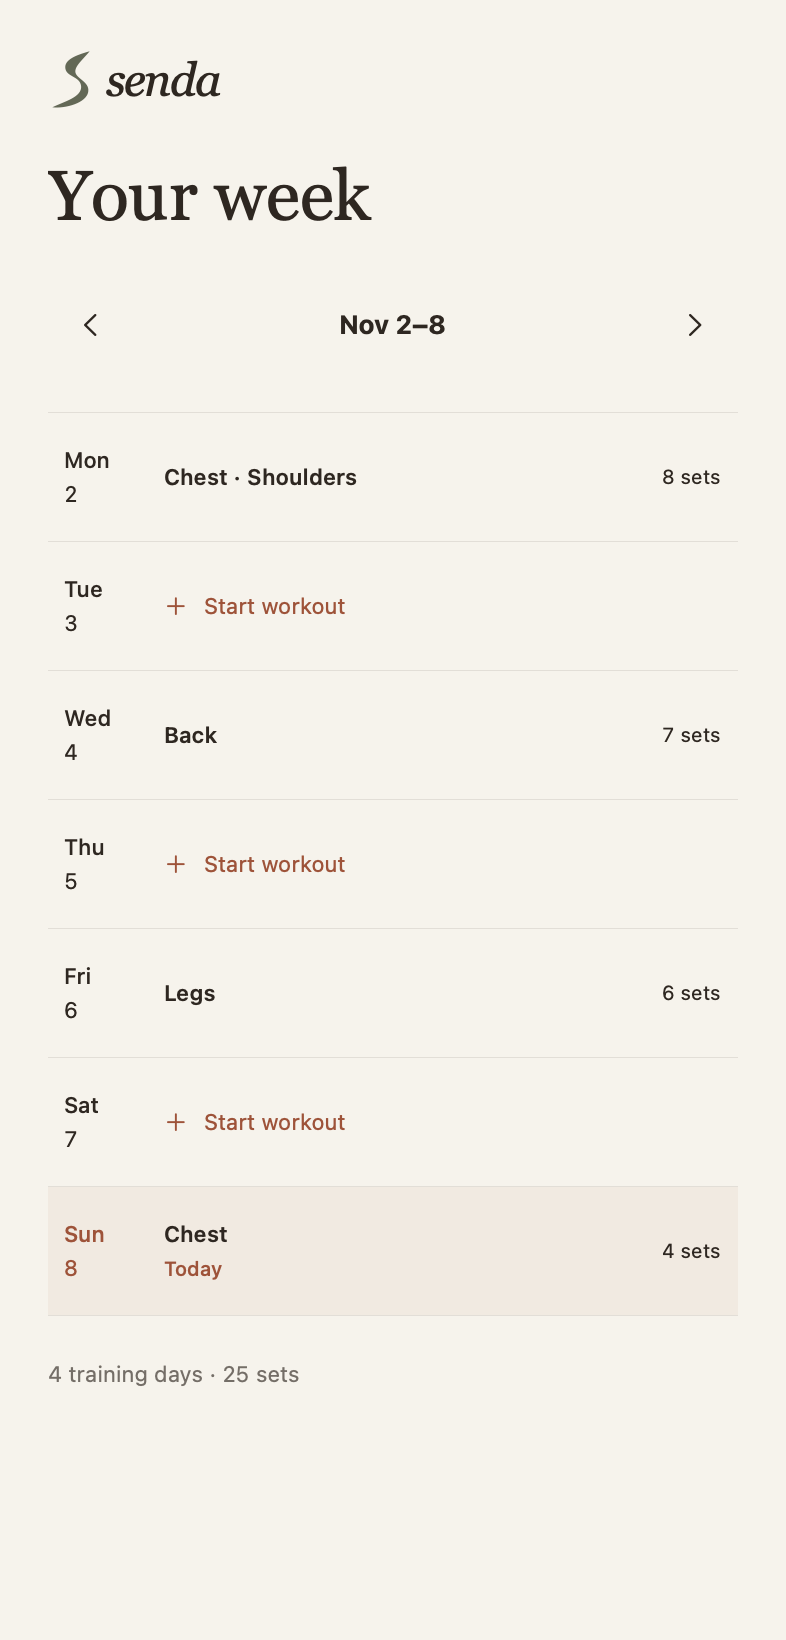
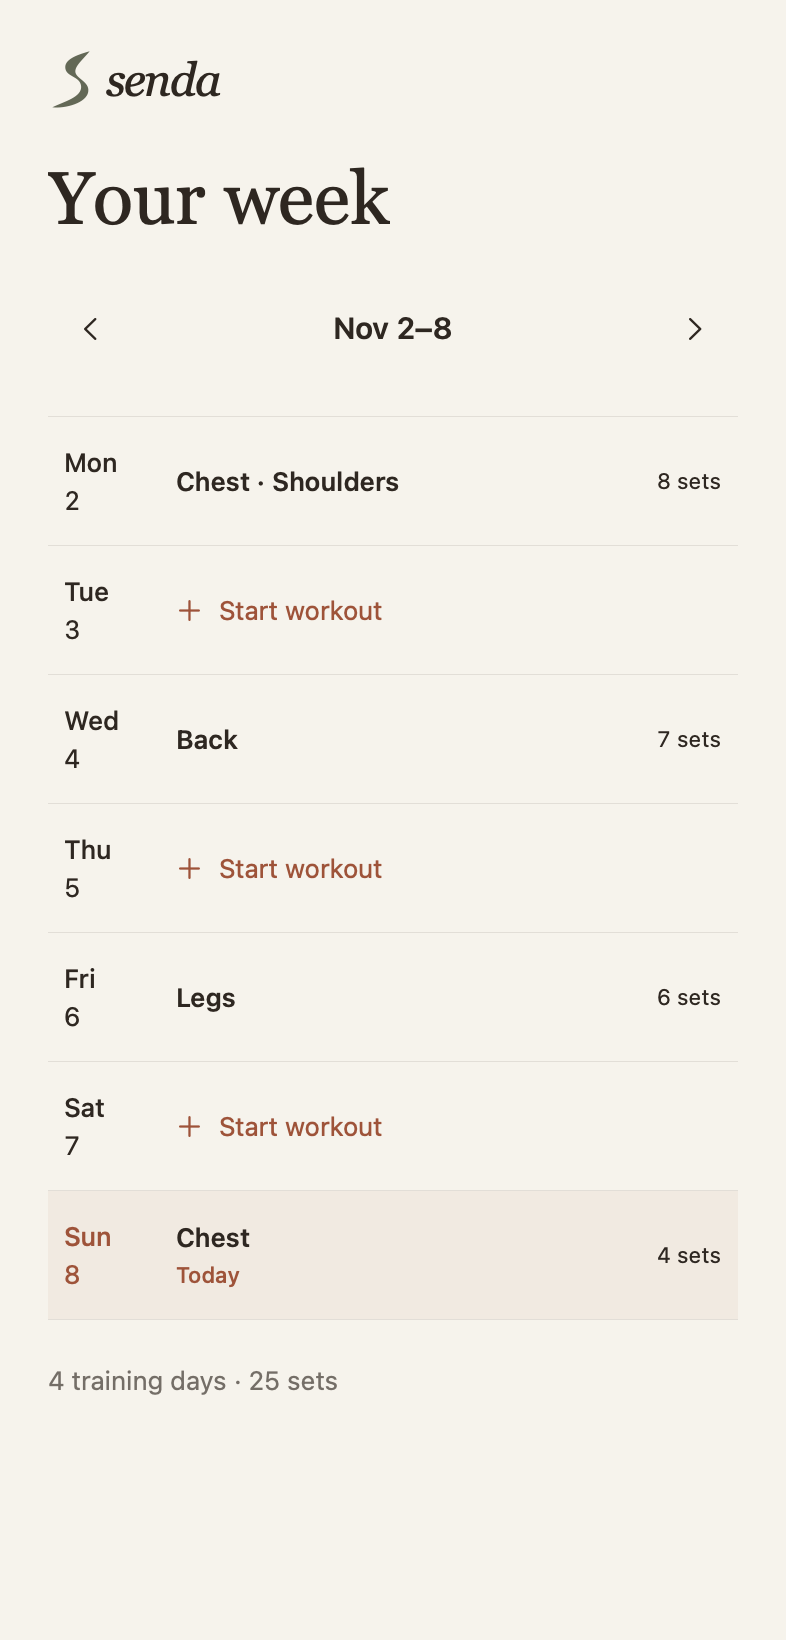
Increase week view text sizes for readability

diff --git a/Sources/SendaNotebook/TrainingNotebookView.swift b/Sources/SendaNotebook/TrainingNotebookView.swift
@@ -27,18 +27,19 @@ enum TrainingText {
 
 struct TrainingWeekView: View {
     @Bindable var model: TrainingNotebookModel
+    @ScaledMetric(relativeTo: .body) private var dateColumnWidth: CGFloat = 44
     var body: some View {
         ScrollView {
             VStack(alignment: .leading, spacing: 22) {
                 TrainingWordmark()
-                Text("Your week").font(NotebookTypography.heading(35))
+                Text("Your week").font(NotebookTypography.heading(37))
                 HStack {
                     Button { model.changeWeek(-1) } label: { Image(systemName: "chevron.left").frame(width: 44, height: 44) }
                         .accessibilityLabel("Previous week").accessibilityIdentifier("previous-week")
                     Spacer(minLength: 0)
                     if let last = model.weekDays.last {
                         Text("\(TrainingText.date(model.workspace.visibleWeek, format: "MMM d"))–\(TrainingText.date(last, format: String(model.workspace.visibleWeek.rawValue.prefix(7)) == String(last.rawValue.prefix(7)) ? "d" : "MMM d"))")
-                            .font(.headline).accessibilityIdentifier("week-range")
+                            .font(.title3.weight(.semibold)).accessibilityIdentifier("week-range")
                     }
                     Spacer(minLength: 0)
                     Button { model.changeWeek(1) } label: { Image(systemName: "chevron.right").frame(width: 44, height: 44) }
@@ -52,18 +53,18 @@ struct TrainingWeekView: View {
                         Button { model.openDay(day) } label: {
                             HStack(alignment: .center, spacing: 12) {
                                 VStack(alignment: .leading, spacing: 3) {
-                                    Text(TrainingText.date(day, format: "EEE")).font(.subheadline.weight(.medium))
-                                    Text(TrainingText.date(day, format: "d")).font(.subheadline.monospacedDigit())
-                                }.frame(width: 38, alignment: .leading)
+                                    Text(TrainingText.date(day, format: "EEE")).font(.body.weight(.medium))
+                                    Text(TrainingText.date(day, format: "d")).font(.body.monospacedDigit())
+                                }.frame(width: dateColumnWidth, alignment: .leading)
                                     .foregroundStyle(day == model.today ? NotebookStyle.clay : NotebookStyle.ink)
                                 VStack(alignment: .leading, spacing: 4) {
                                     if summary.setCount == 0 {
                                         Label("Start workout", systemImage: "plus")
-                                            .font(.subheadline).foregroundStyle(NotebookStyle.clay)
-                                    } else { Text(categories.joined(separator: " · ")).font(.subheadline.bold()).fixedSize(horizontal: false, vertical: true) }
-                                    if day == model.today { Text("Today").font(.caption.weight(.medium)).foregroundStyle(NotebookStyle.clay) }
+                                            .font(.body).foregroundStyle(NotebookStyle.clay)
+                                    } else { Text(categories.joined(separator: " · ")).font(.body.bold()).fixedSize(horizontal: false, vertical: true) }
+                                    if day == model.today { Text("Today").font(.subheadline.weight(.medium)).foregroundStyle(NotebookStyle.clay) }
                                 }.frame(maxWidth: .infinity, alignment: .leading)
-                                if summary.setCount > 0 { Text("\(summary.setCount) sets").font(.caption.monospacedDigit()).fixedSize() }
+                                if summary.setCount > 0 { Text("\(summary.setCount) sets").font(.subheadline.monospacedDigit()).fixedSize() }
                             }
                             .padding(.vertical, 14).padding(.horizontal, 8).frame(minHeight: 64)
                             .background(day == model.today ? NotebookStyle.clay.opacity(0.06) : .clear)
@@ -75,7 +76,7 @@ struct TrainingWeekView: View {
                     }
                 }
                 Text("\(model.trainingDayCount) training days · \(model.weekSetCount) sets")
-                    .font(.subheadline).foregroundStyle(NotebookStyle.quiet).accessibilityIdentifier("week-summary")
+                    .font(.body).foregroundStyle(NotebookStyle.quiet).accessibilityIdentifier("week-summary")
                 if let error = model.errorMessage { TrainingSaveError(model: model, message: error) }
             }
             .padding(.horizontal, 24).padding(.vertical, 24).frame(maxWidth: 560).frame(maxWidth: .infinity)

diff --git a/Sources/SendaPreview/Preview.swift b/Sources/SendaPreview/Preview.swift
@@ -26,6 +26,7 @@ struct SendaPreview {
         let date = Date()
         let model = try TrainingNotebookModel(repository: MemoryJournalRepository(journal: SampleJournal.makeWeek(relativeTo: date)), isSample: true, now: { date })
         try render(TrainingNotebookView(model: model), to: directory.appendingPathComponent("senda-week.png"))
+        try render(TrainingNotebookView(model: model), to: directory.appendingPathComponent("senda-week-compact.png"), width: 320, height: 568)
         _ = model.openDay(model.today)
         for id in ["cable-row", "lat-pulldown", "overhead-press", "lateral-raise", "biceps-curl", "triceps-extension", "push-up"] {
             _ = model.addExercise(id)
